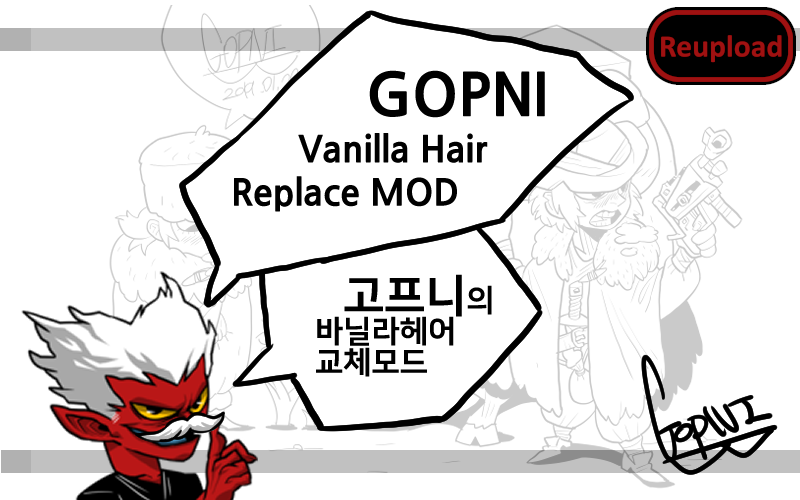
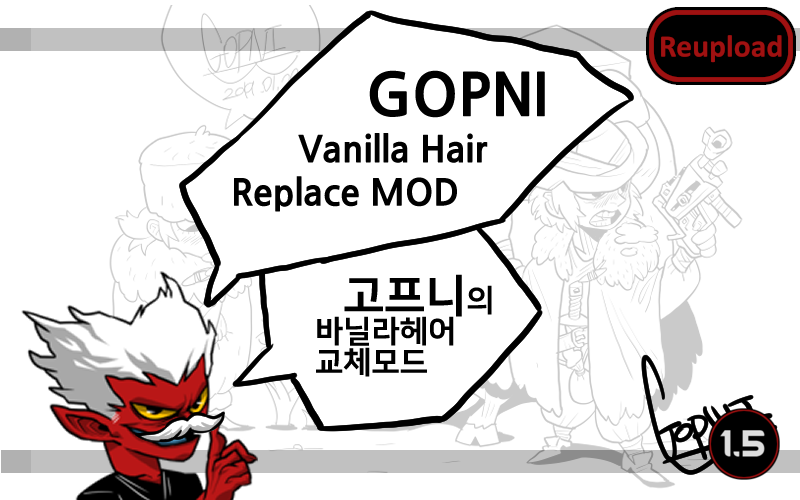
Mod updated for 1.5 and passed autotests

Changed region(s): [[0.875, 0.81, 1.0, 0.96]]

diff --git a/README.md b/README.md
@@ -24,11 +24,13 @@ This Mod changes 'Vanilla Hair' to Texture of high quality.
 
 -  See if the the error persists if you just have this mod and its requirements active.
 -  If not, try adding your other mods until it happens again.
--  Post your error-log using https://steamcommunity.com/workshop/filedetails/?id=818773962]HugsLib and command Ctrl+F12
+-  Post your error-log using https://steamcommunity.com/workshop/filedetails/?id=818773962]HugsLib or the standalone https://steamcommunity.com/sharedfiles/filedetails/?id=2873415404]Uploader and command Ctrl+F12
 -  For best support, please use the Discord-channel for error-reporting.
 -  Do not report errors by making a discussion-thread, I get no notification of that.
 -  If you have the solution for a problem, please post it to the GitHub repository.
+-  Use https://github.com/RimSort/RimSort/releases/latest]RimSort to sort your mods
 
 
 
+https://steamcommunity.com/sharedfiles/filedetails/changelog/2039018341]![Image](https://img.shields.io/github/v/release/emipa606/GOPNIVanillaHairReplace?label=latest%20version&style=plastic&color=9f1111&labelColor=black)
 
